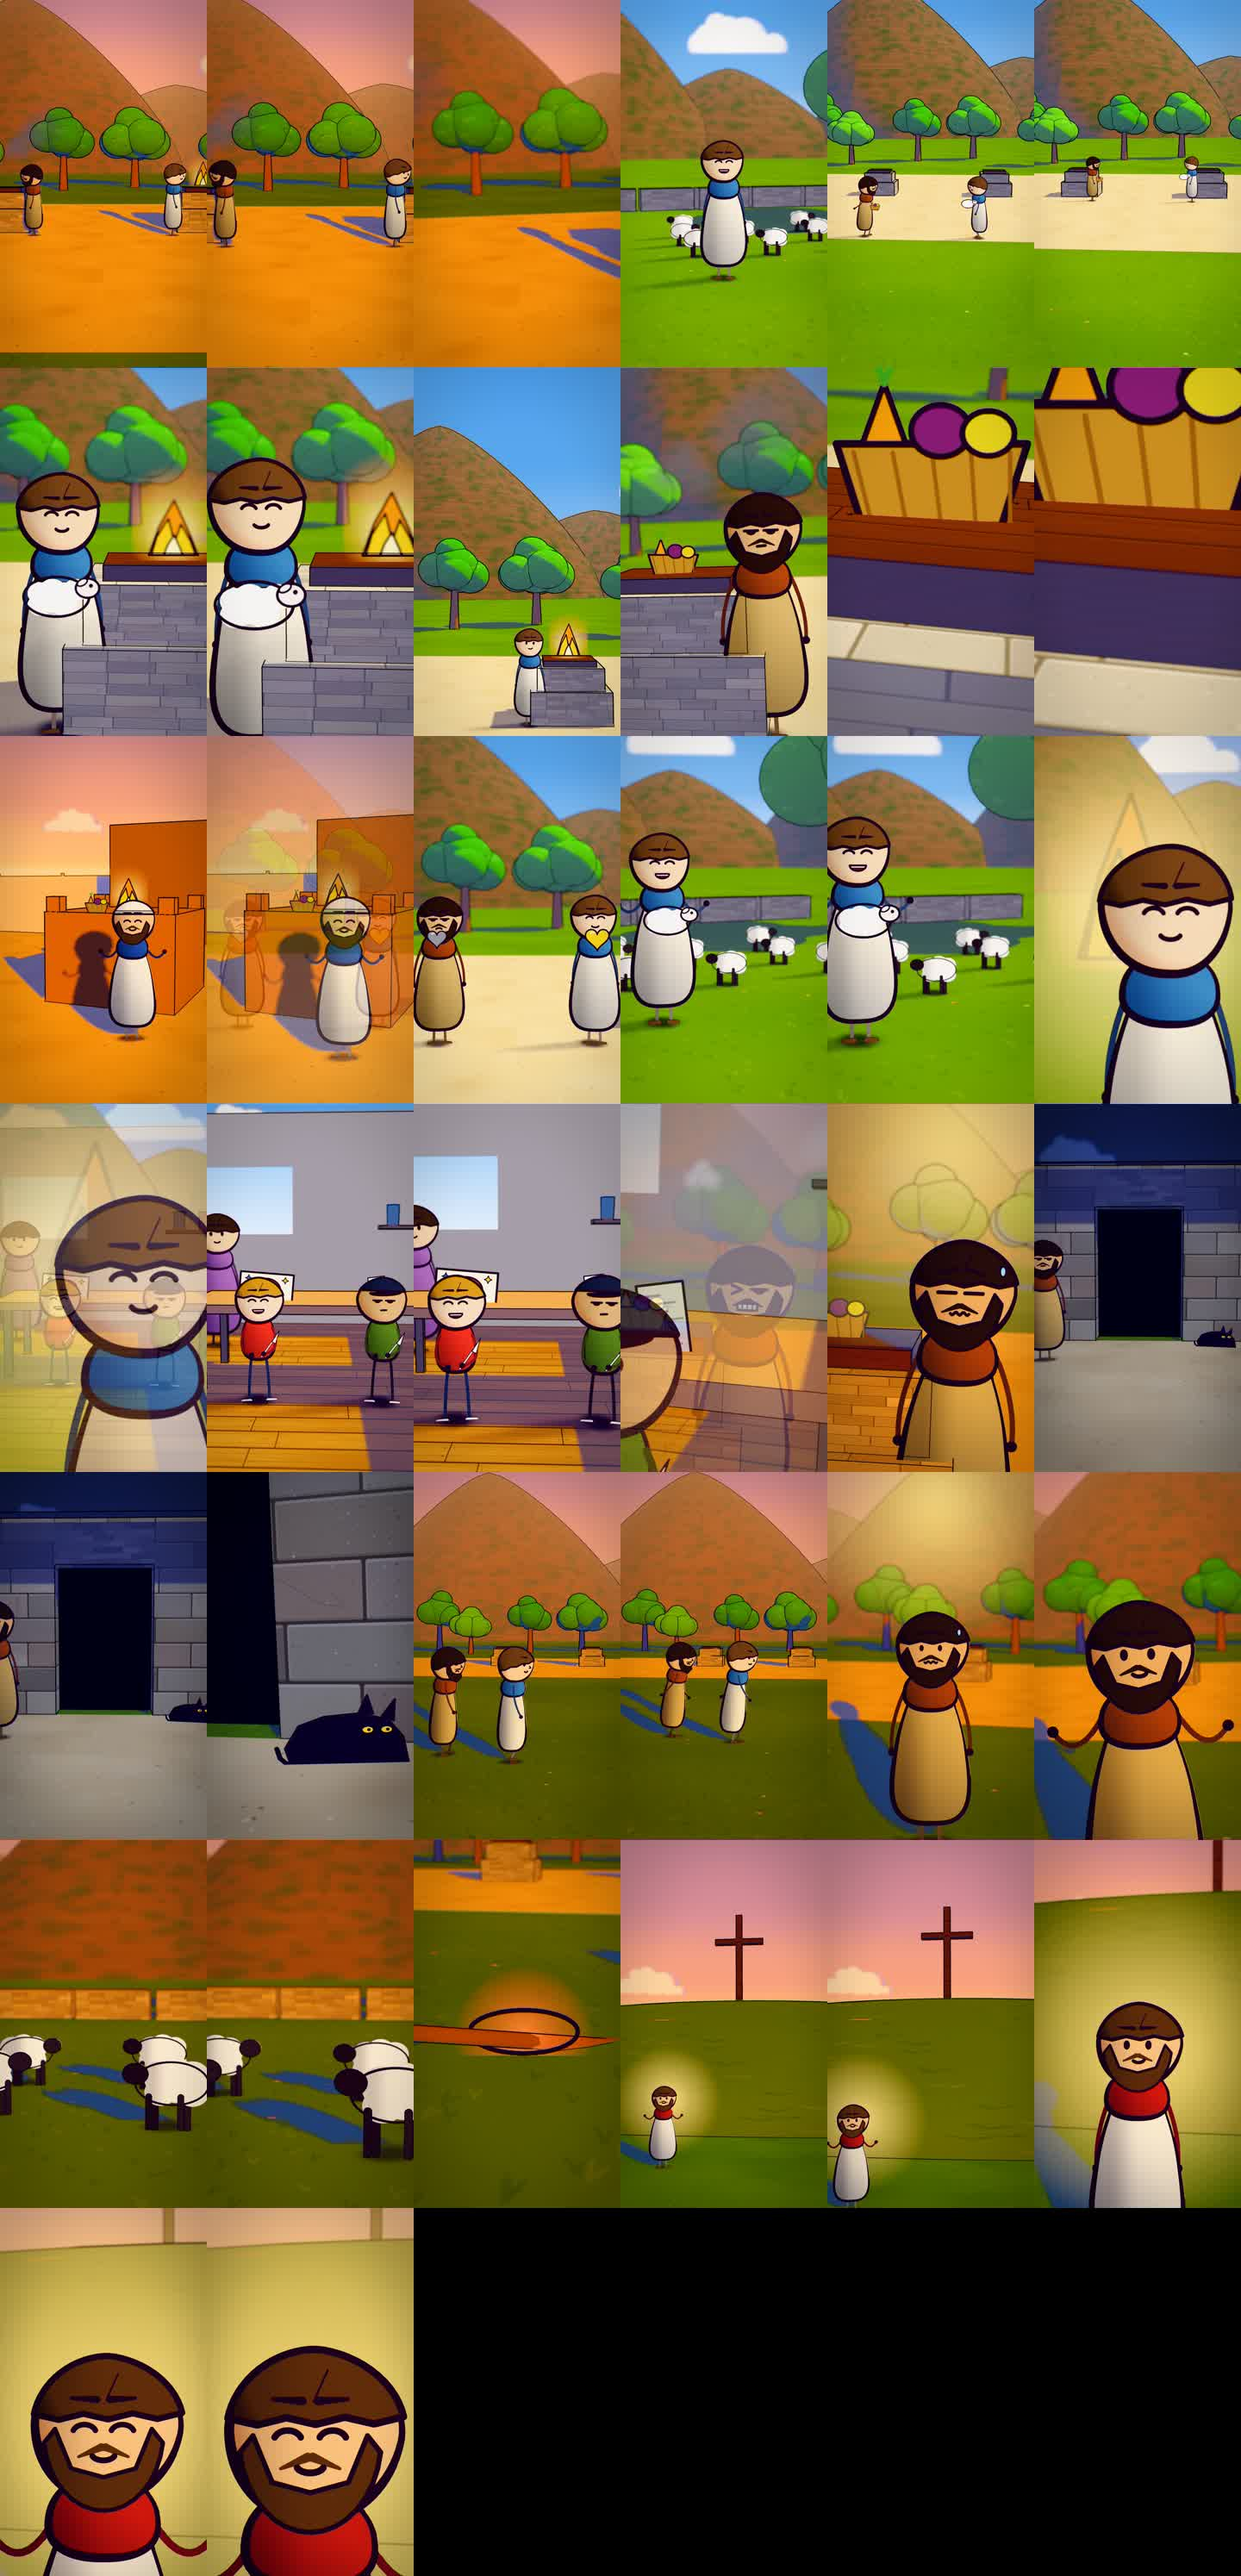
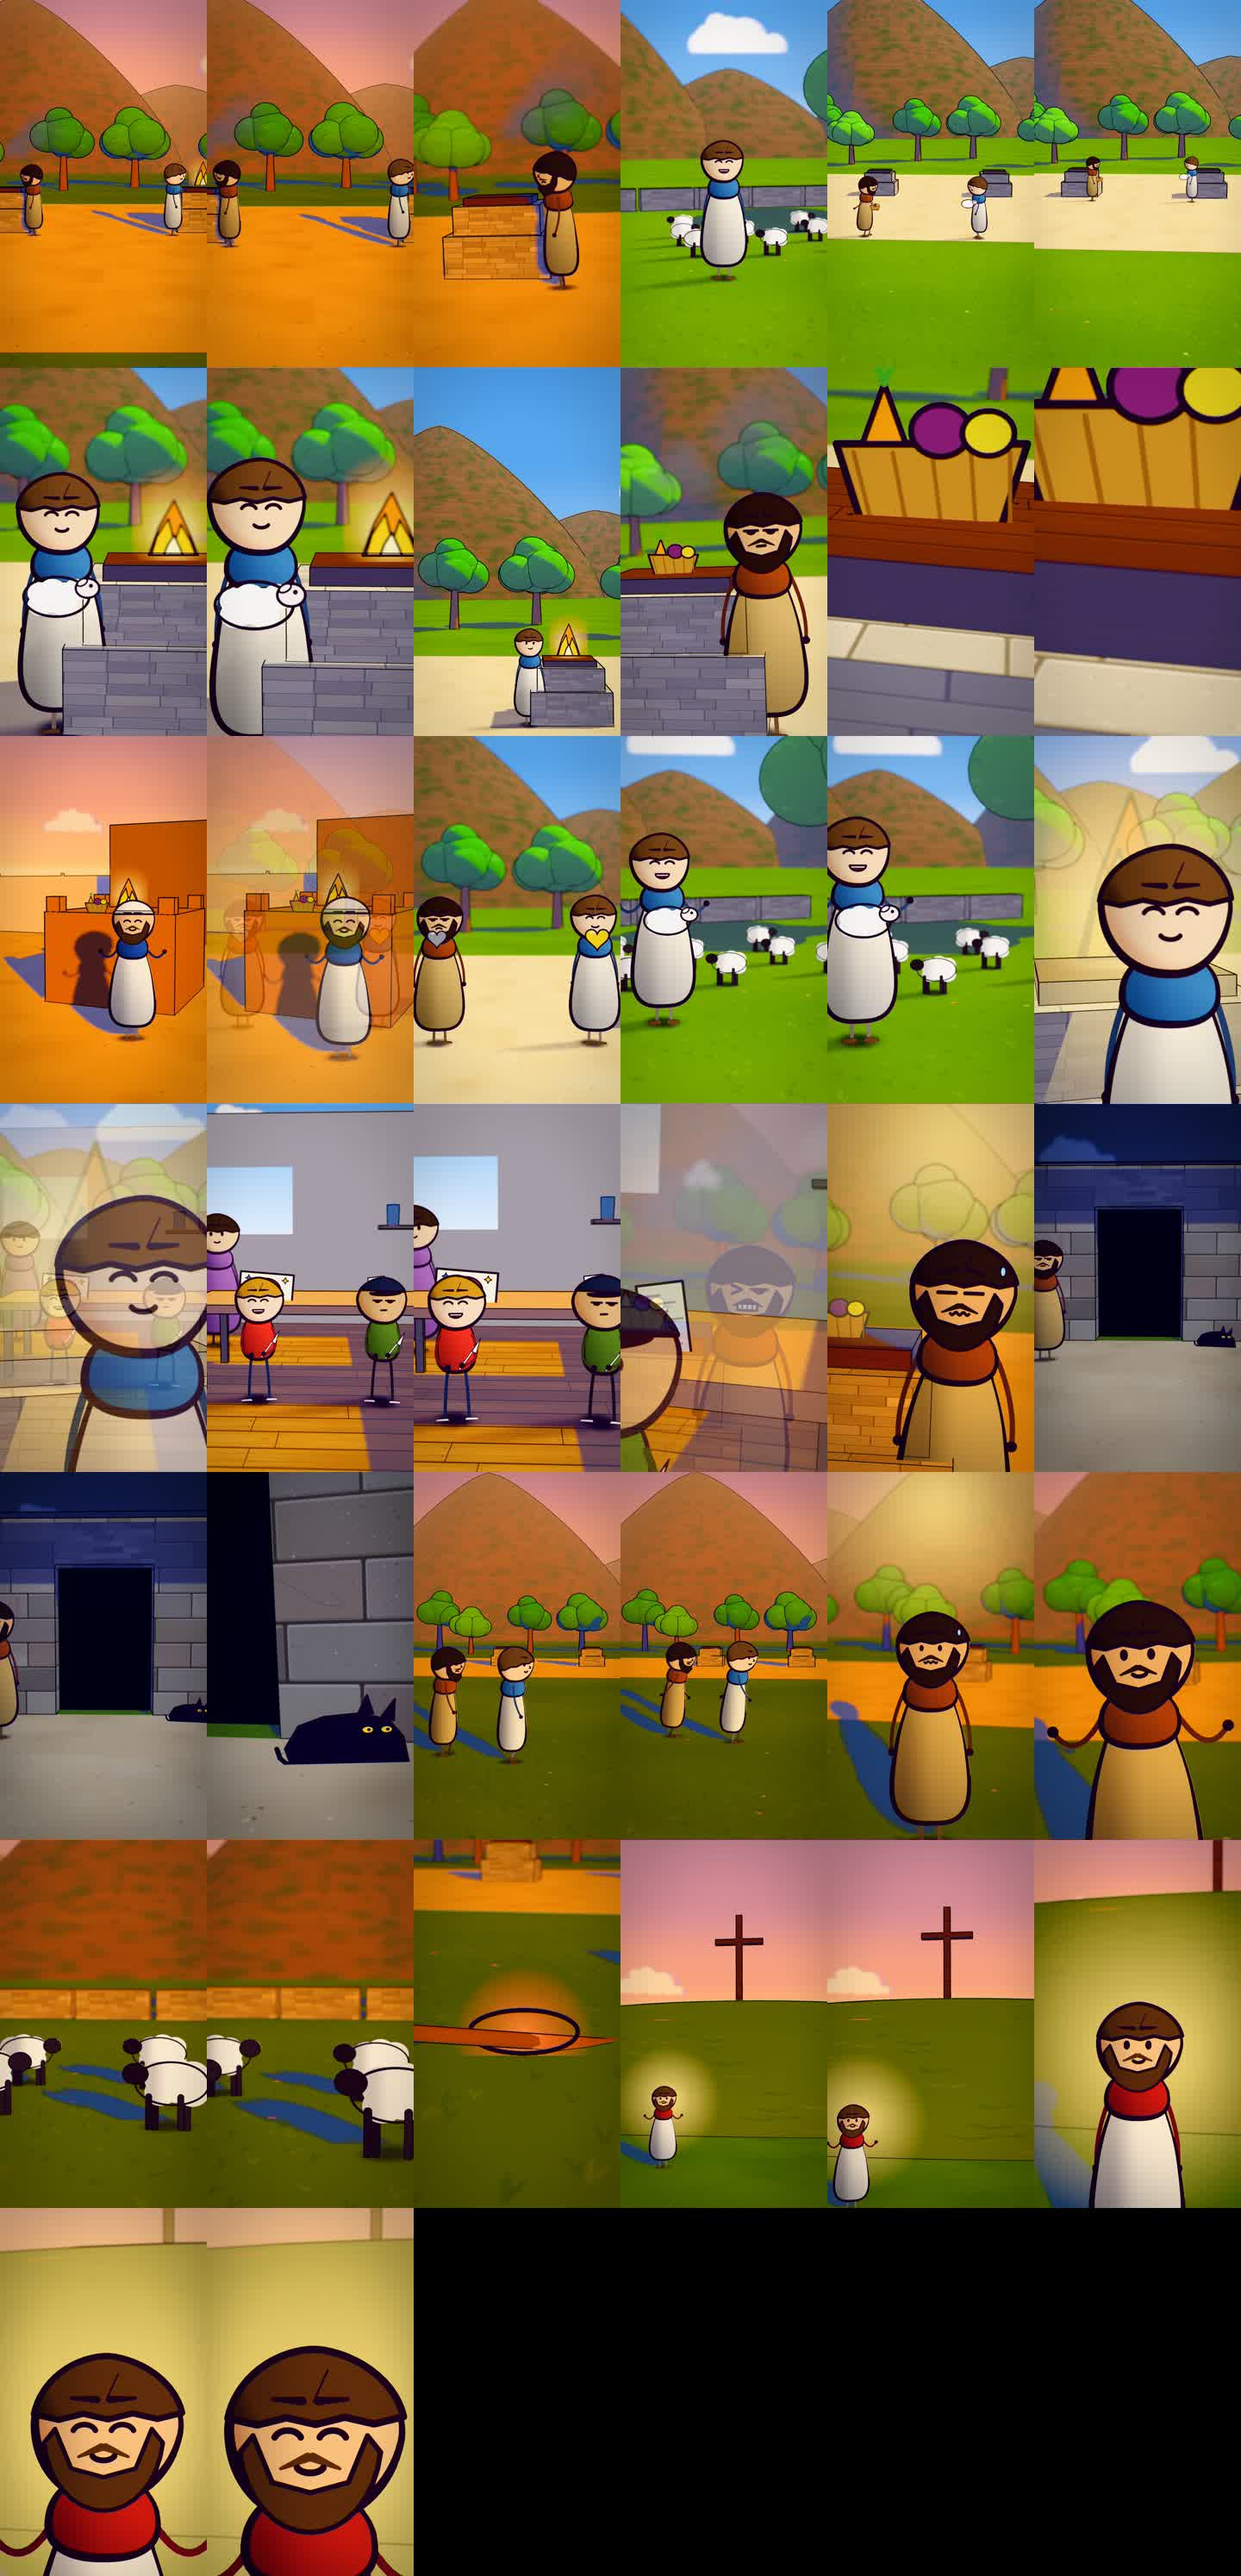
Job 007 done: cain-and-abel re-render verified, both fixes landed, no regressions

diff --git a/reports/STATUS.md b/reports/STATUS.md
@@ -41,4 +41,10 @@ WORKER READY os=Windows 11 Home 10.0.26300 gpu=NVIDIA GeForce RTX 4060 Laptop GP
   REGRESSION: the last shots (~t=66-71 s, sheet row 6 cols 4-6) are almost black. The door, wall and floor are dark navy; only the gold handle and the light strip at the bottom are visible. In the first render (job 003) the same shots were bright (brown door, white brick wall, handle).
   Before/after at t=60/64/68/71 s: reports/noah_006_end_regression.png (top row = old job-003 render, bottom row = new). t=60 and 64 are the same in both; 68 and 71 are the dark ones.
   Because of this, FINAL VIDEOS\ still holds the OLD Noah files (with the empty-field shot). The new files are in exports\ only. Waiting for the planner to fix the lighting (probably the world.ts change) and queue a new job.
-- Next: job 007 (Cain re-render) is rendering now; I will compare it frame by frame against the old Cain at the same timestamps.
+- DONE 007 cain-and-abel (re-render): duration=75.30s res=1440x2560, render_min~13.8, sheet=reports/cain-and-abel_sheet.jpg (new). Mux: EN mean -18.1 dB / max -1.0; HI mean -17.0 dB / max -1.1.
+  Compared old (FINAL VIDEOS, job 004) vs new at t=3, 5, 12, 35, 36, 52, 62, 74 s:
+  - t=5 s FIXED: camera now pushes onto Cain at his brick altar (was empty ground).
+  - t=35-36 s FIXED: Abel's close-up now has the altar/hills set behind him (was the washed-out set). A faint ghost of trees is visible at t=35, which looks like the dissolve in progress.
+  - t=3, 12, 52, 62, 74 s identical to the old render. No new regressions, no black frames.
+  Replaced "Cain and Abel - ENGLISH/HINDI.mp4" in FINAL VIDEOS\ with the new files.
+- Next: job 008 (Noah re-render, replaces 006) is rendering now. Old Noah (job 003) in FINAL VIDEOS\ is the comparison baseline and stays until 008 is verified at t=50, 60, 64, 68, 71 s.

diff --git a/jobs/done.md b/jobs/done.md
@@ -5,3 +5,4 @@
 003
 004
 006
+007
